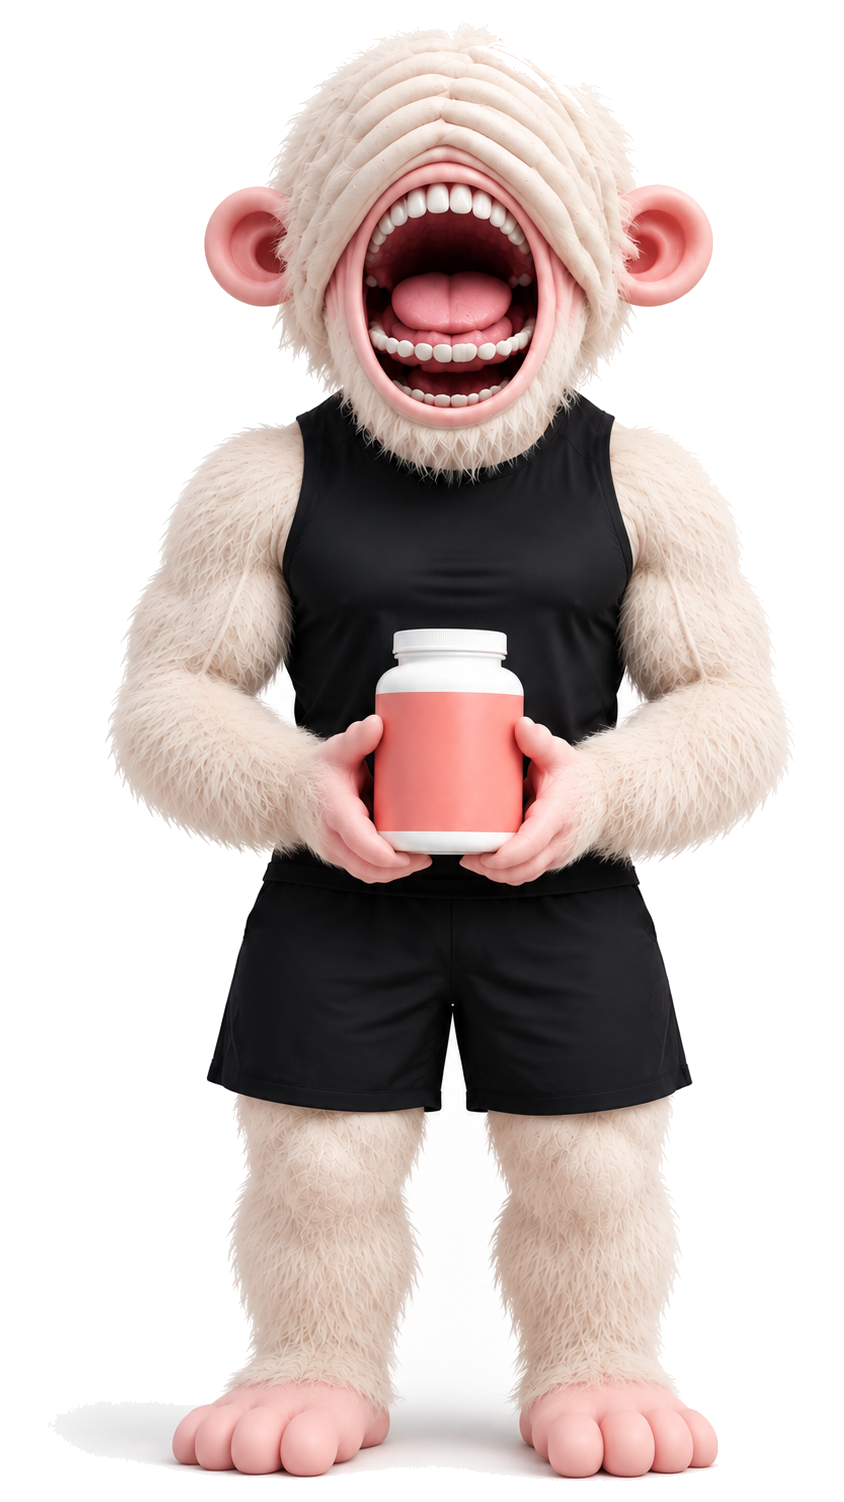
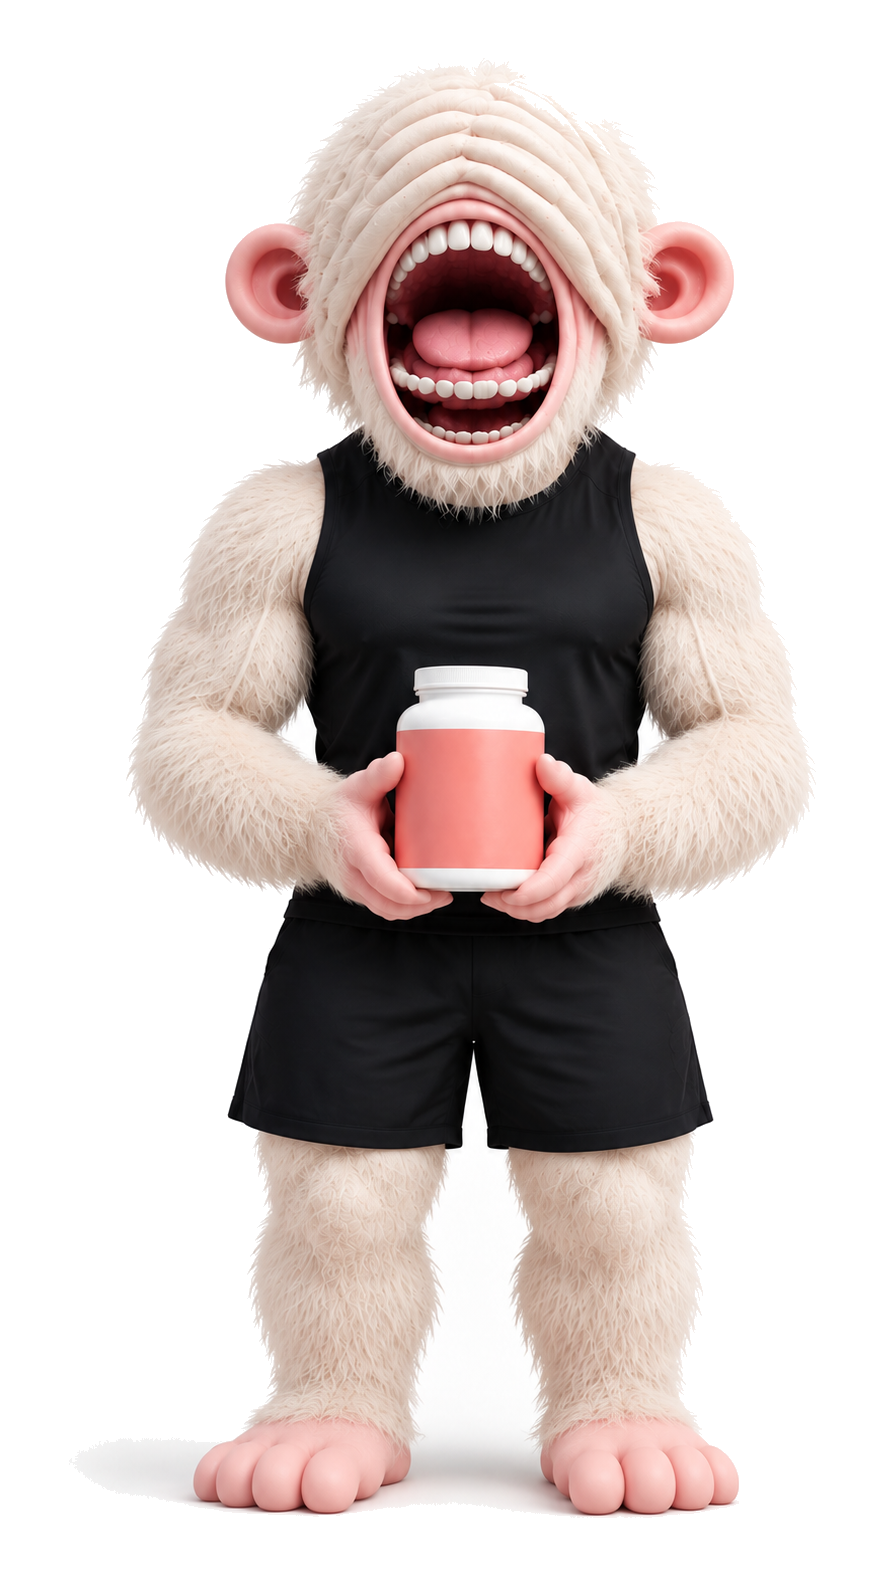
Re-pad bokyongsu beast cutout and enlarge munjingui/bokyongsu photos
- Add more transparent margin around the bokyongsu beast cutout so
  the drop-shadow filter has room to render without any hint of the
  corner clipping some viewers were still seeing
- Bump its cache-busting version since the file changed again
- Increase the display height of the munjingui and bokyongsu human
  photos so they read closer in scale to jeonpajo/chwaryeongma,
  tuned separately per breakpoint to avoid clipping into the
  question heading on mobile

Changed region(s): [[0.1232, 0.0, 0.955, 1.0], [0.4621, 0.3981, 0.5853, 0.4594]]

diff --git a/css/style.css b/css/style.css
@@ -318,6 +318,7 @@ html:has(.archive:not([hidden])) { overflow: hidden; }
 .archive.is-open .panel.is-active .p-hit { pointer-events: none; }
 .p-media { position: absolute; inset: 0; overflow: hidden; background: #fff; }
 .p-media img { position: absolute; left: 50%; bottom: 14px; height: 74%; width: auto; max-width: none; transform: translateX(-50%); filter: drop-shadow(0 10px 16px rgba(17,17,18,.16)); transition: opacity 650ms var(--ax), height 1000ms var(--ax), transform 650ms var(--ax); }
+.panel[data-film="munjingui"] .p-media .p-human, .panel[data-film="bokyongsu"] .p-media .p-human { height: 90%; }
 .p-media .p-beast { opacity: 0; height: 80%; transform: translate(-50%, 3%); }
 .panel.is-active .p-media .p-human { opacity: 0; }
 .panel.is-active .p-media .p-beast { opacity: 1; transform: translate(-50%, 0); }
@@ -365,6 +366,7 @@ html:has(.archive:not([hidden])) { overflow: hidden; }
   .panel + .panel { border-left: 0; border-top: 1px solid rgba(0,0,0,.12); }
   .archive.is-open .panel + .panel { border-top-color: transparent; }
   .p-media img { height: 92%; left: auto; right: 8%; transform: none; }
+  .panel[data-film="munjingui"] .p-media .p-human, .panel[data-film="bokyongsu"] .p-media .p-human { height: 95%; }
   .p-media .p-beast { transform: translateY(3%); }
   .panel.is-active .p-media .p-beast { transform: none; }
   .archive.is-open .panel.is-active .p-media img { right: 50%; transform: translateX(50%); }

diff --git a/index.html b/index.html
@@ -54,7 +54,7 @@
       <li class="panel" data-i="1" data-film="bokyongsu">
         <div class="p-media" aria-hidden="true">
           <img class="p-human" src="img/case/02-bokyongsu-human.png?v=2" alt="">
-          <img class="p-beast" src="img/case/02-bokyongsu-beast.png?v=2" alt="">
+          <img class="p-beast" src="img/case/02-bokyongsu-beast.png?v=3" alt="">
           <video muted playsinline loop preload="none" controls controlsList="nodownload noplaybackrate" disablepictureinpicture></video>
         </div>
         <span class="p-label" aria-hidden="true"><span class="p-no">02</span><span class="p-name">BOK YONG SU</span><span class="p-sub">Unfiltered Faith</span></span>
